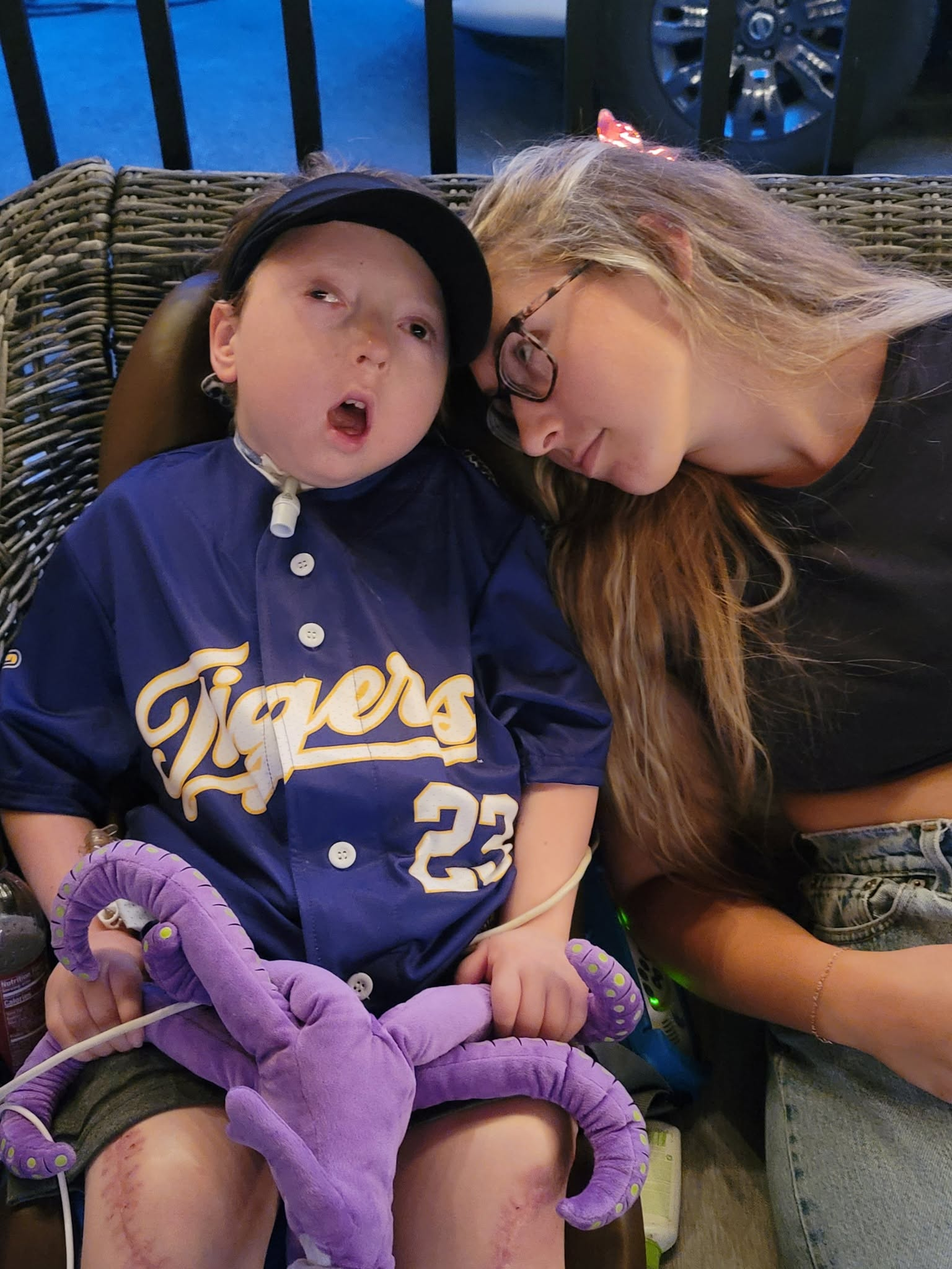
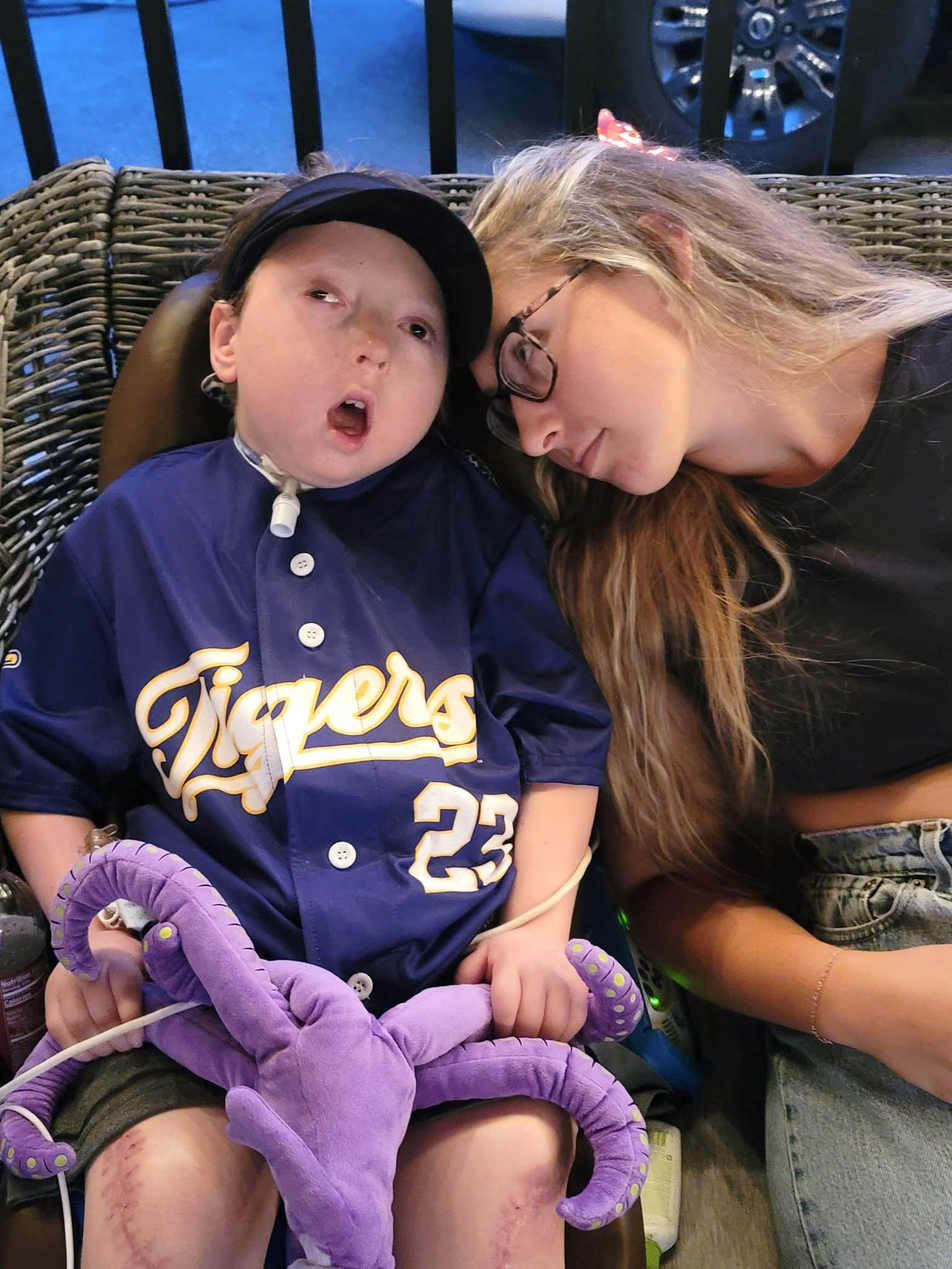
Photos: six dark ones lightened, the float photo cropped tighter
A gentle lift on the Tupperware drawer, the seedlings, the PICU photo,
Avery and Adam, the Christmas blanket and the rodeo pavilion so they read
on a phone; nothing else changed. The ISR float photo loses the last
sliver of the business name at the top. The cornhole countdown photo
shows whole on its event card so the chalkboard isn't cut off.

diff --git a/docs/STORY-NOTES.md b/docs/STORY-NOTES.md
@@ -99,6 +99,8 @@ Full-size photos live in `public/images/uploads/` (uploaded through GitHub or th
 
 Uploaded but **not used on purpose**: `lesisrddays.jpg`, `dadisr.jpg` and `duncansville_days_bcofadam.jpg` uncropped (Dad's business banner or name), `cornhole.jpg`, `200_club_benefit.jpg`, `adams_bayou_benefit.jpg` and `adams_hope_pamphlet.jpg` (phone numbers, people's names or payment links), `isr.jpg` (ISR's registered logo), `kailee_rock.jpg` (a child who isn't family), `lea_and_aj_kiss.jpg`, `right_after.jpg`, `small_hospital_couch.jpg`, `lea_stuffed_animals.jpg`, `captainaj.jpg` (hospital), `adams_village_3.jpg` (another family's teal shirts), and personal photos (`mom+dad.jpg`, `momdadgirls.jpg`, `momdadlea.jpg`, `roadtrip.jpg`, `snowman.jpg`, `decorating_xmas_tree.jpg`, `lea_bday.jpg`, `tiger_fans.jpg`, `yoda.jpg`, `aj_2025.jpg` which is also stored sideways). The 206px thumbnails and exact duplicates of files already in use were deleted.
 
+Lightly brightened in October 2026 so they read on a phone (no other edits): `before_aj_mess.jpg`, `aj_plants.jpg`, `picu.jpg`, `avery_and_aj2.jpg`, `xmaspic.jpg`, `fishingrodeo.jpg`. The originals are in the git history and on Facebook.
+
 Kept off the site: hospital and medical photos (one PICU photo excepted), bath and pool photos, the newspaper photo, siblings' personal photos, and flyers with phone numbers or the prayersforadam PayPal.
 
 ## What we keep off the website

diff --git a/src/content/events/cornhole-tournament-2020.md b/src/content/events/cornhole-tournament-2020.md
@@ -9,6 +9,7 @@ summary: A double-elimination tournament with pulled pork (or two hot dogs), a
   for water safety and CPR education in our community.
 photo: /images/uploads/cornhole_countdown.jpg
 photoAlt: Adam in his stroller holding a little chalkboard that says 1 day until cornhole
+photoWhole: true
 featured: false
 draft: false
 ---
